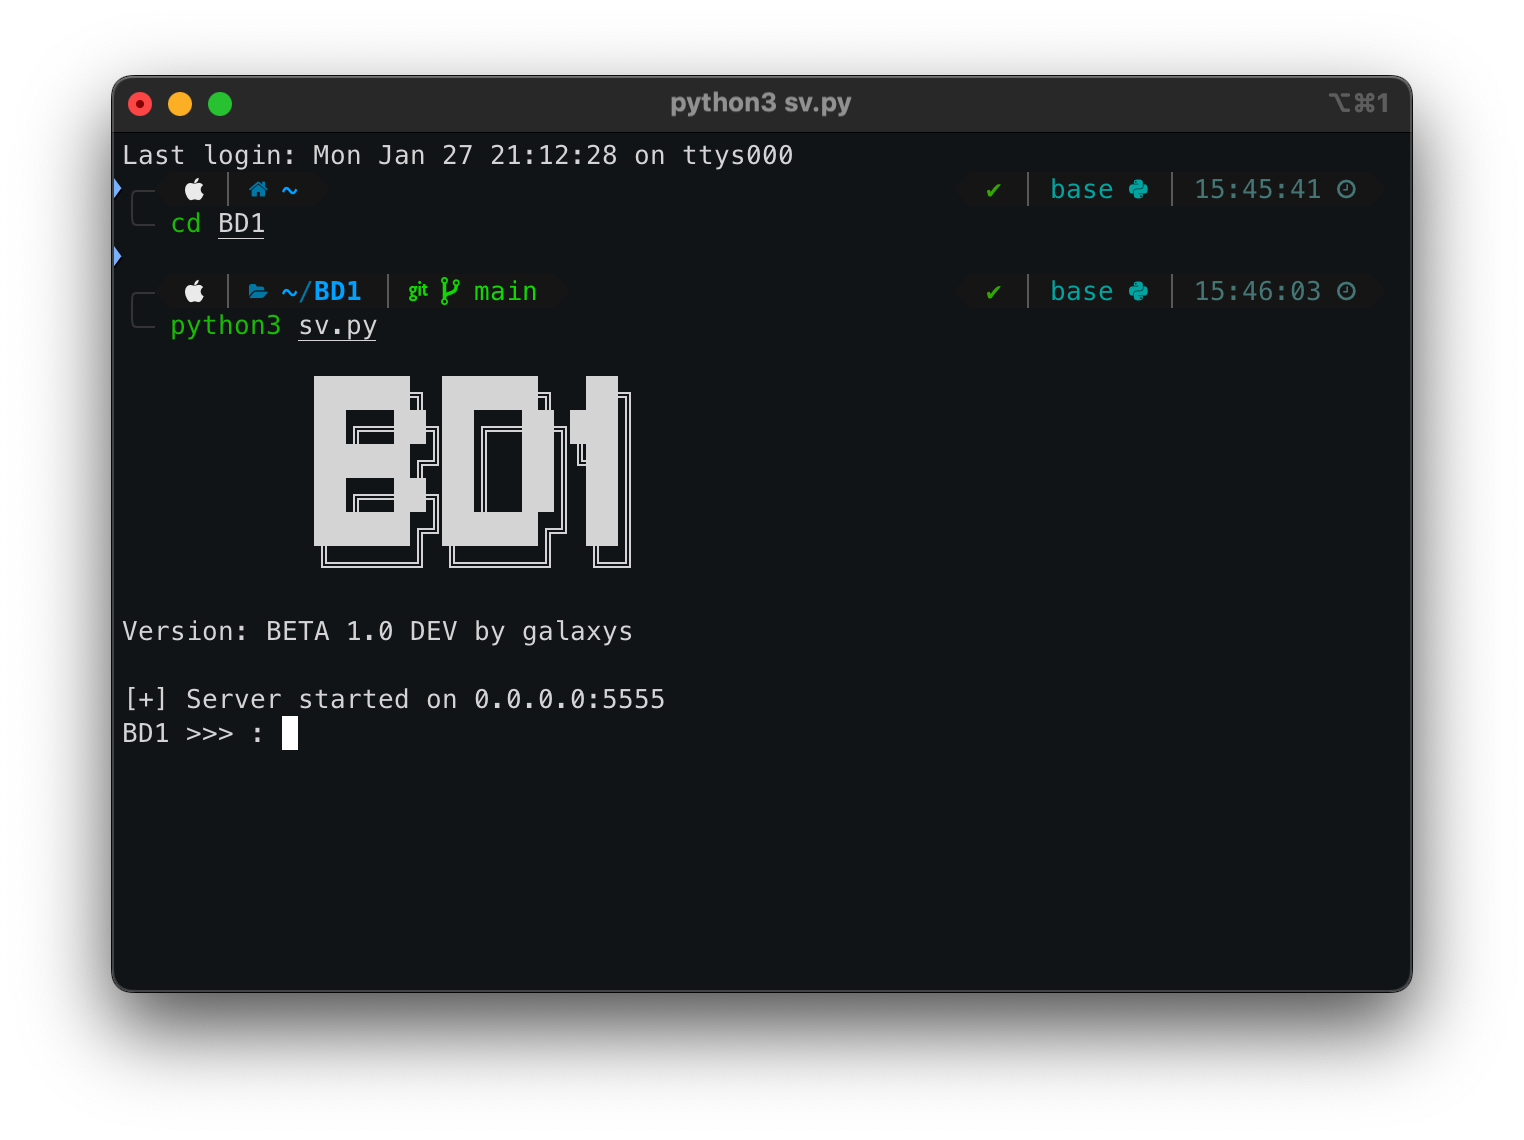
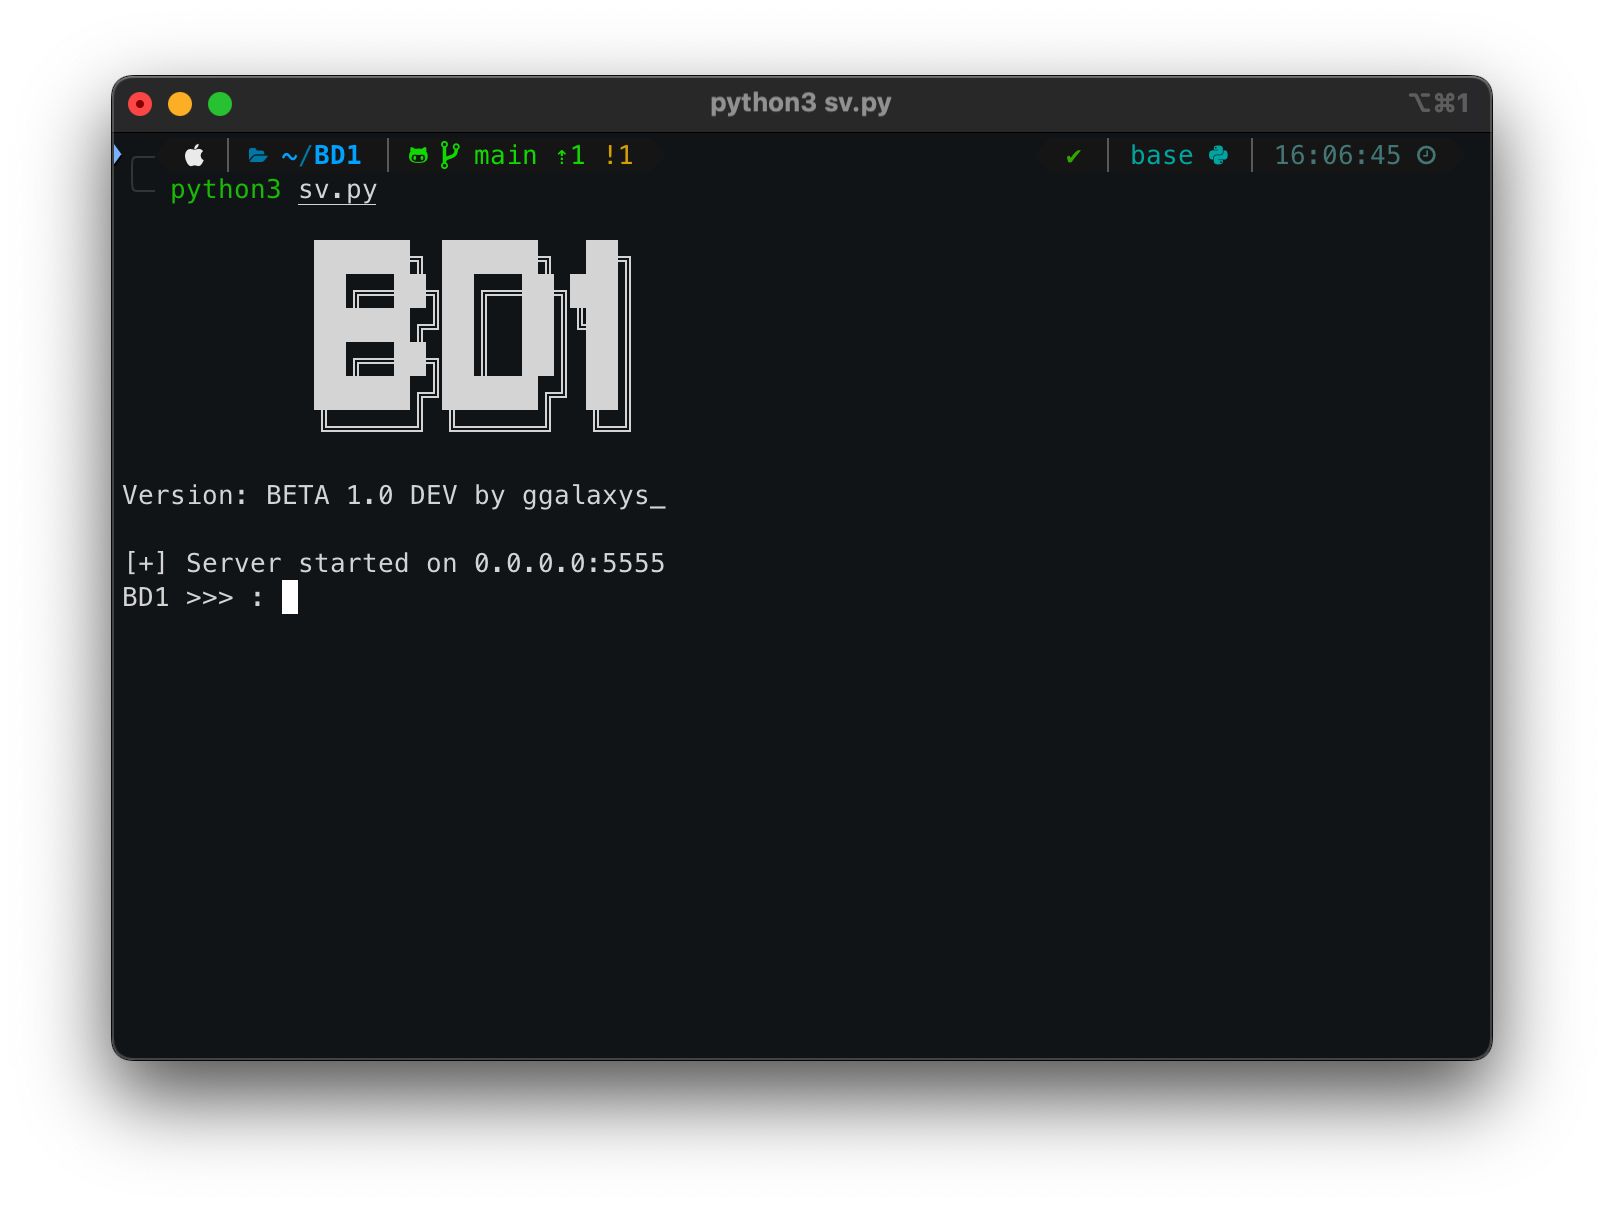
Update Upload

diff --git a/sv.py b/sv.py
@@ -42,7 +42,7 @@ class Allclients:
             ╚═════╝ ╚═════╝  ╚═╝
                 """
         print(ascii_art)
-        print("Version: BETA 1.0 DEV by galaxys\n")
+        print("Version: BETA 1.0 DEV by ggalaxys_\n")
         print(f"[+] Server started on {ip}:{port}")
 
 
